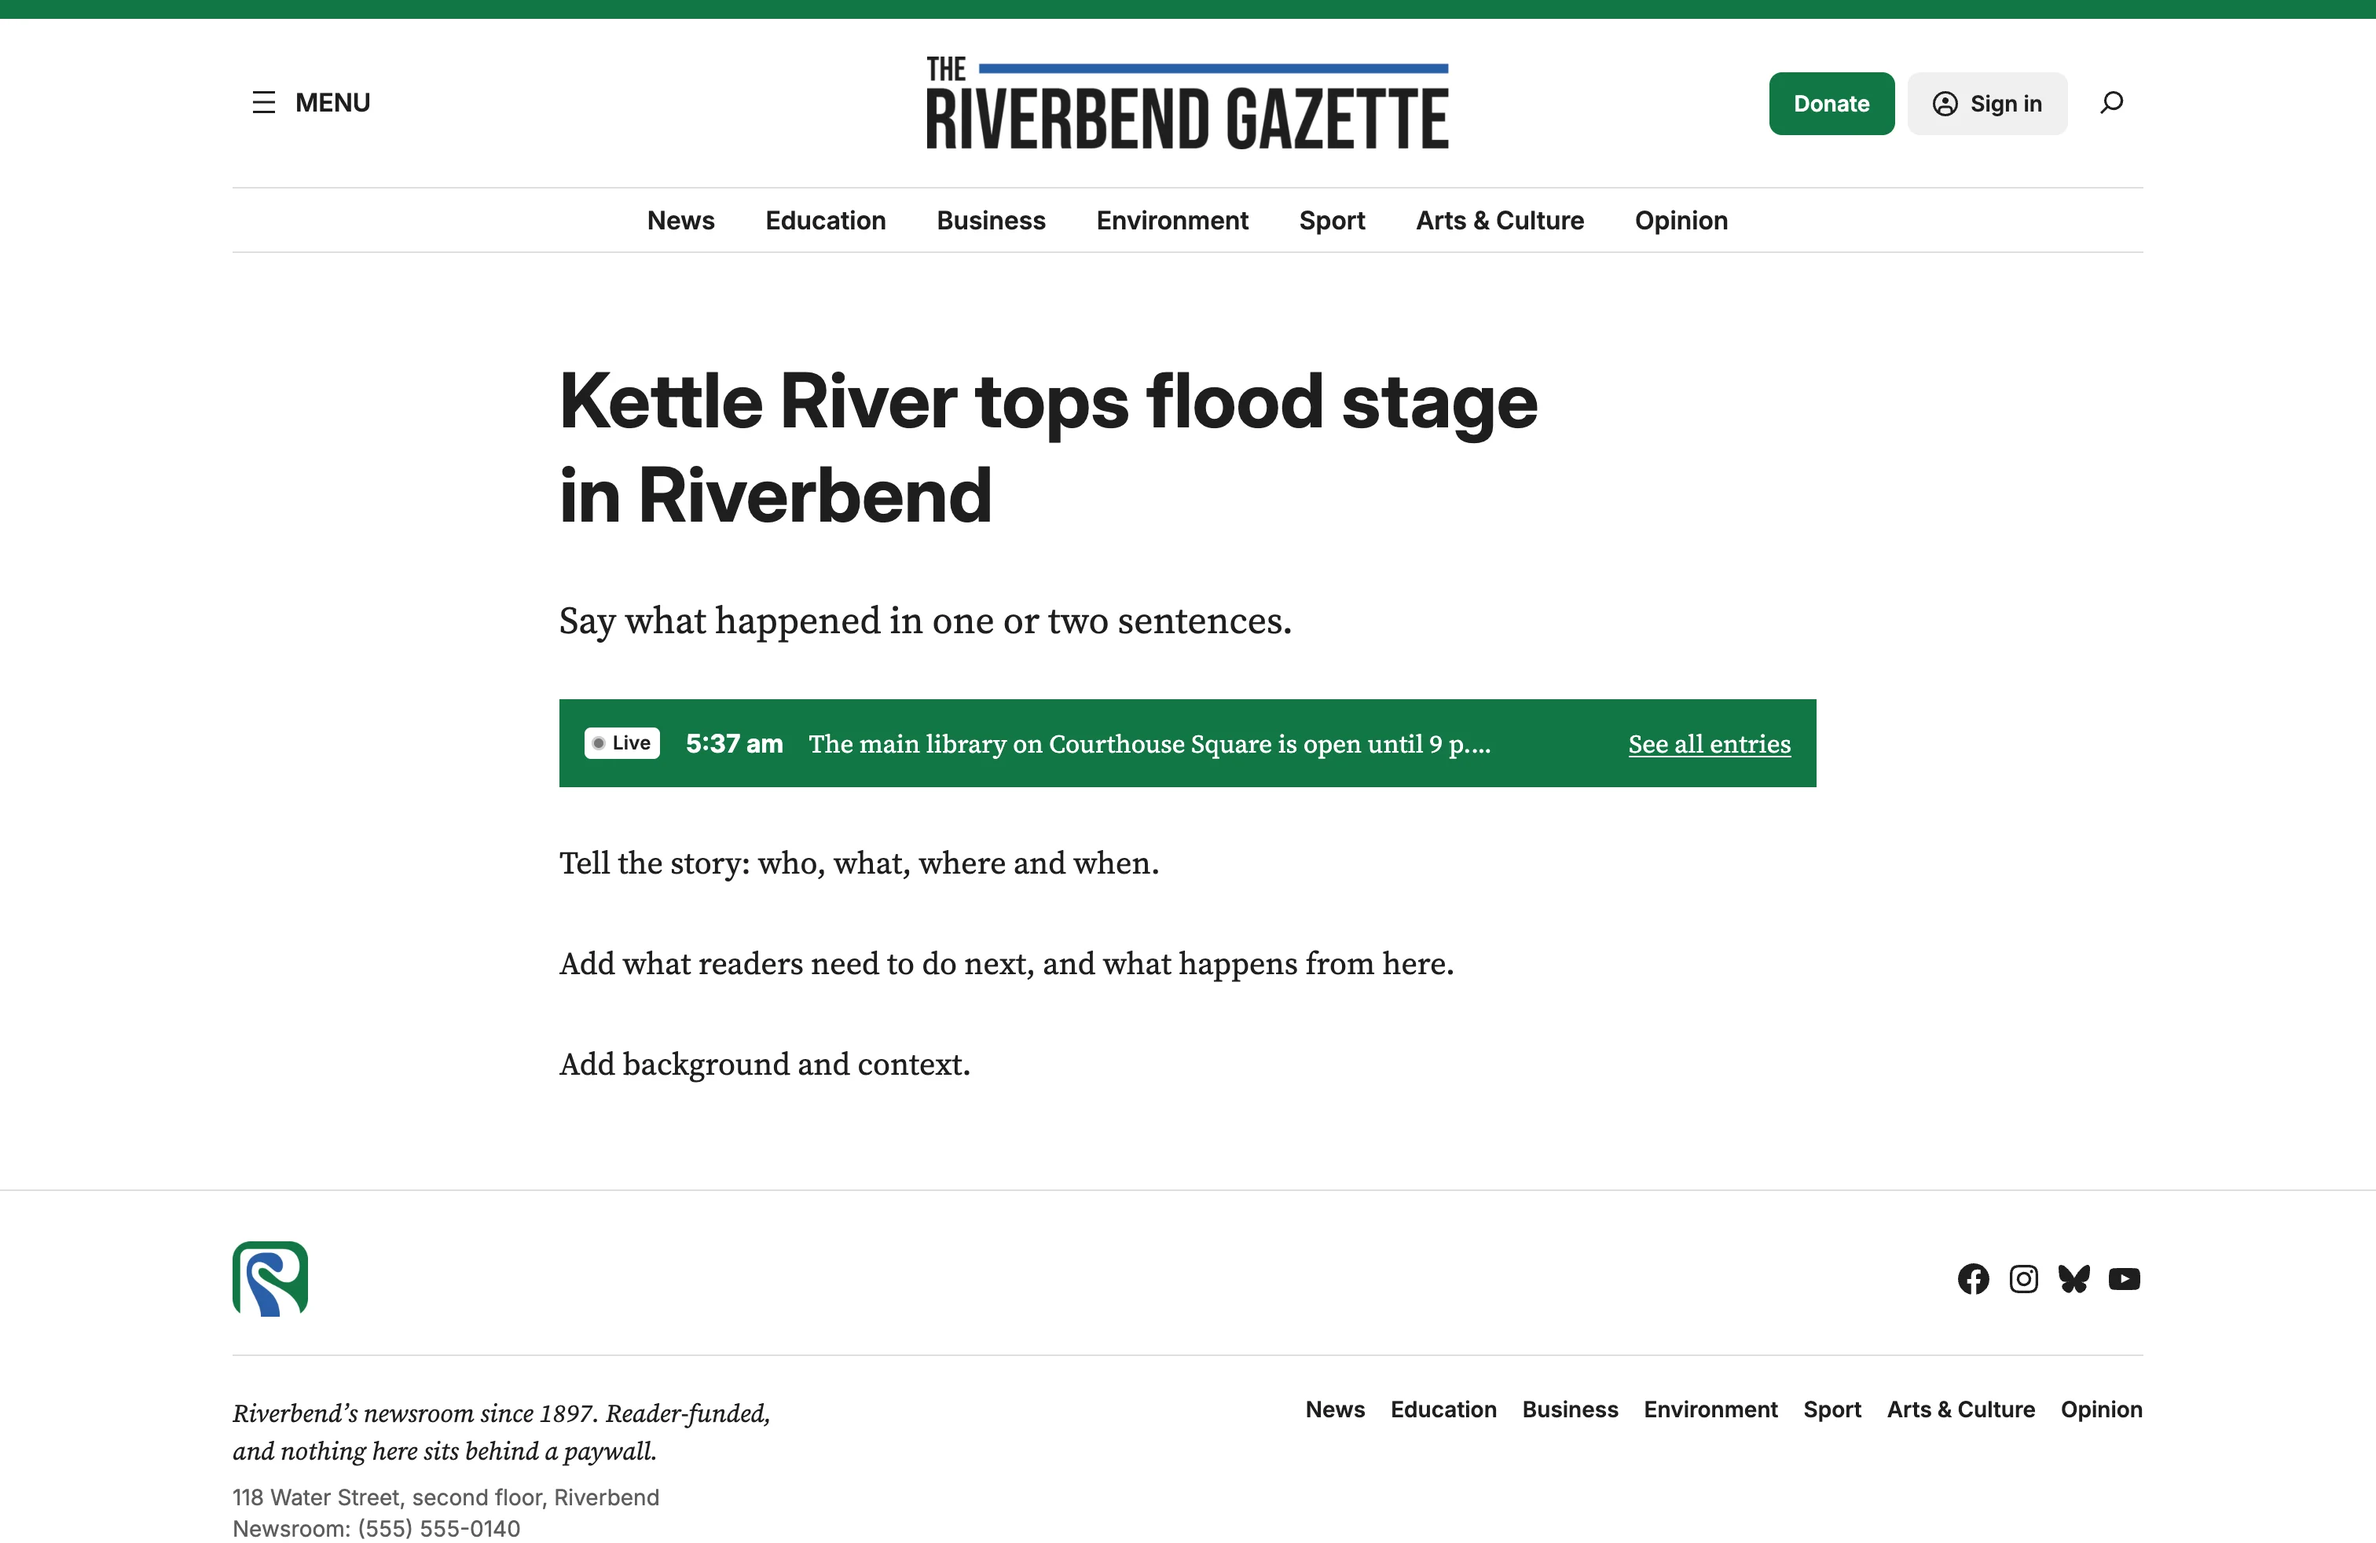
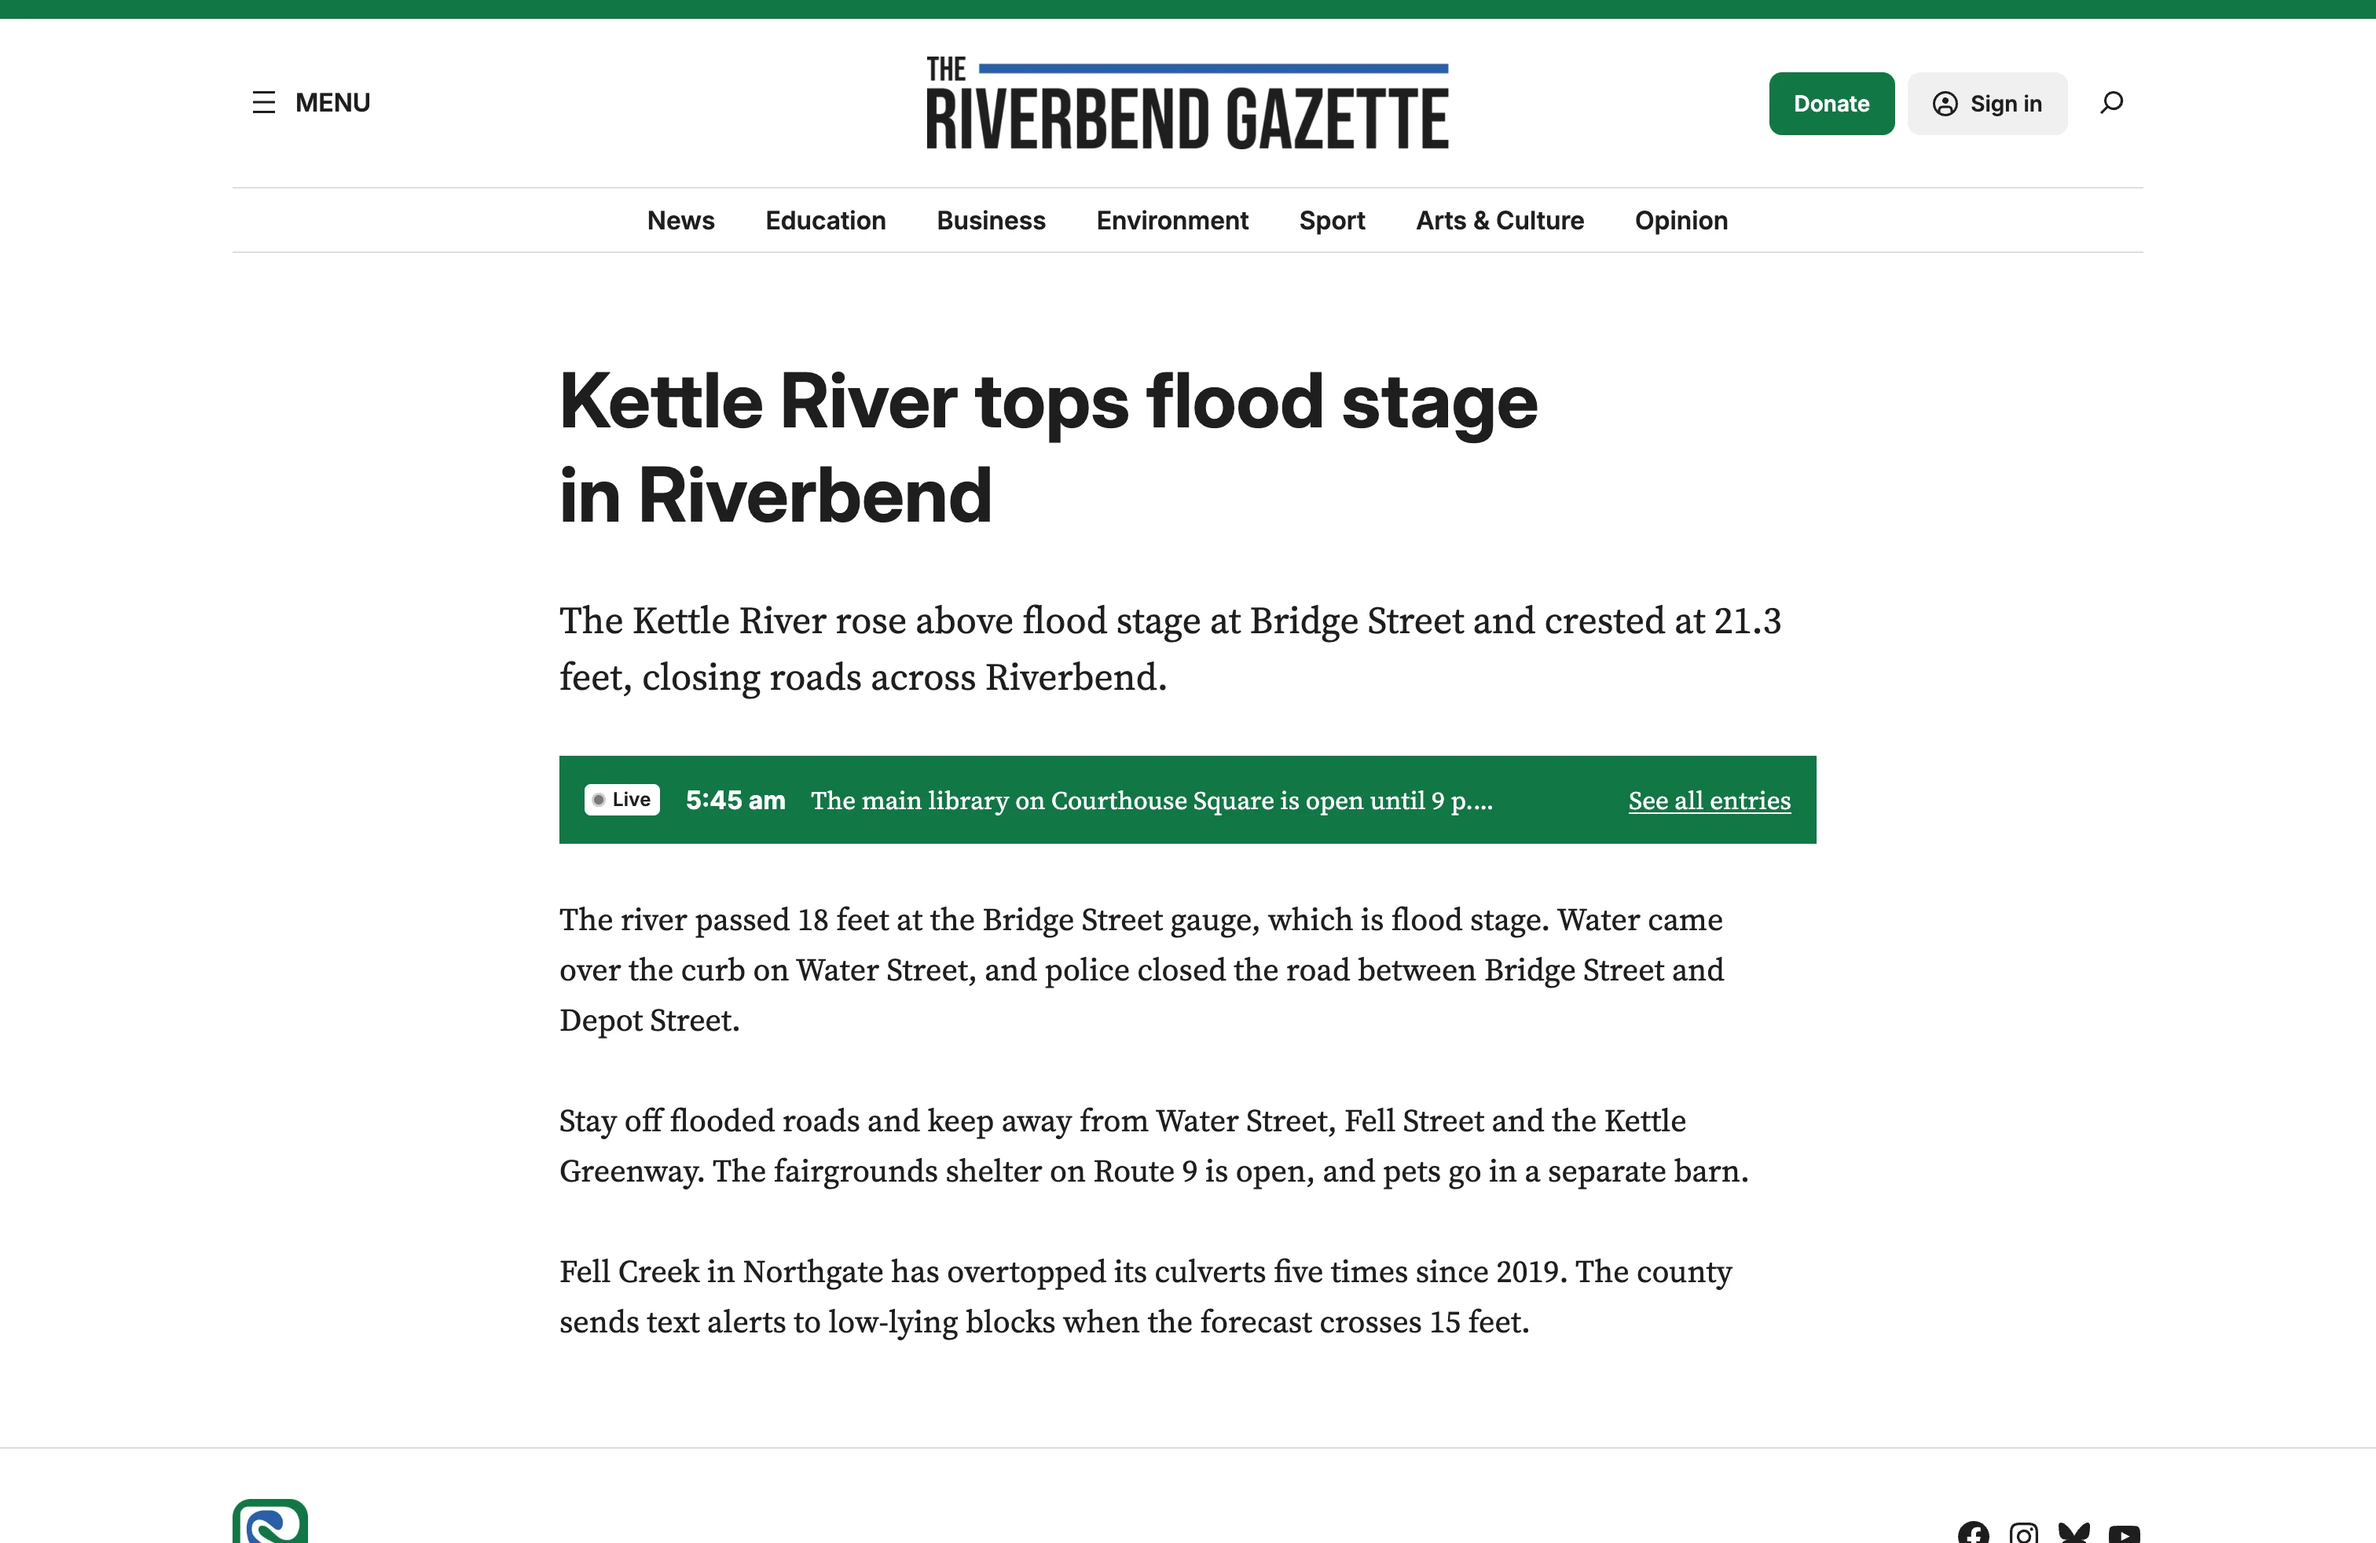
docs(site): give the pattern pages real copy

diff --git a/site/screenshots/seed.php b/site/screenshots/seed.php
@@ -789,7 +789,8 @@ function newspack_rc_screenshots_seed_posts( $posts, $users, $media, $tokens, $c
  * A page names its pattern, the liveblog for the Rolling Coverage block
  * (`coverage`), and the liveblogs for blocks set to Custom (`rows`, one per
  * Coverage Status and Follow Coverage pair, in order) with their names and
- * descriptions (`row_text`), which replace the pattern's placeholder text.
+ * descriptions (`row_text`), which replace the pattern's placeholder text, as
+ * does `copy`, a list of [placeholder, text] pairs for the pattern's paragraphs.
  *
  * @param array $post   The page from content.json.
  * @param array $tokens Placeholders in content.json and their values.
@@ -826,6 +827,13 @@ function newspack_rc_screenshots_pattern_content( $post, $tokens ) {
 	};
 
 	$content = serialize_blocks( $apply( parse_blocks( $pattern['content'] ) ) );
+
+	foreach ( $post['copy'] ?? [] as $replacement ) {
+		$at = strpos( $content, esc_html( $replacement[0] ) );
+		if ( false !== $at ) {
+			$content = substr_replace( $content, esc_html( $replacement[1] ), $at, strlen( esc_html( $replacement[0] ) ) );
+		}
+	}
 
 	foreach ( $post['row_text'] ?? [] as $row ) {
 		foreach ( [ 'Liveblog name', 'One line about this liveblog.' ] as $index => $placeholder ) {
